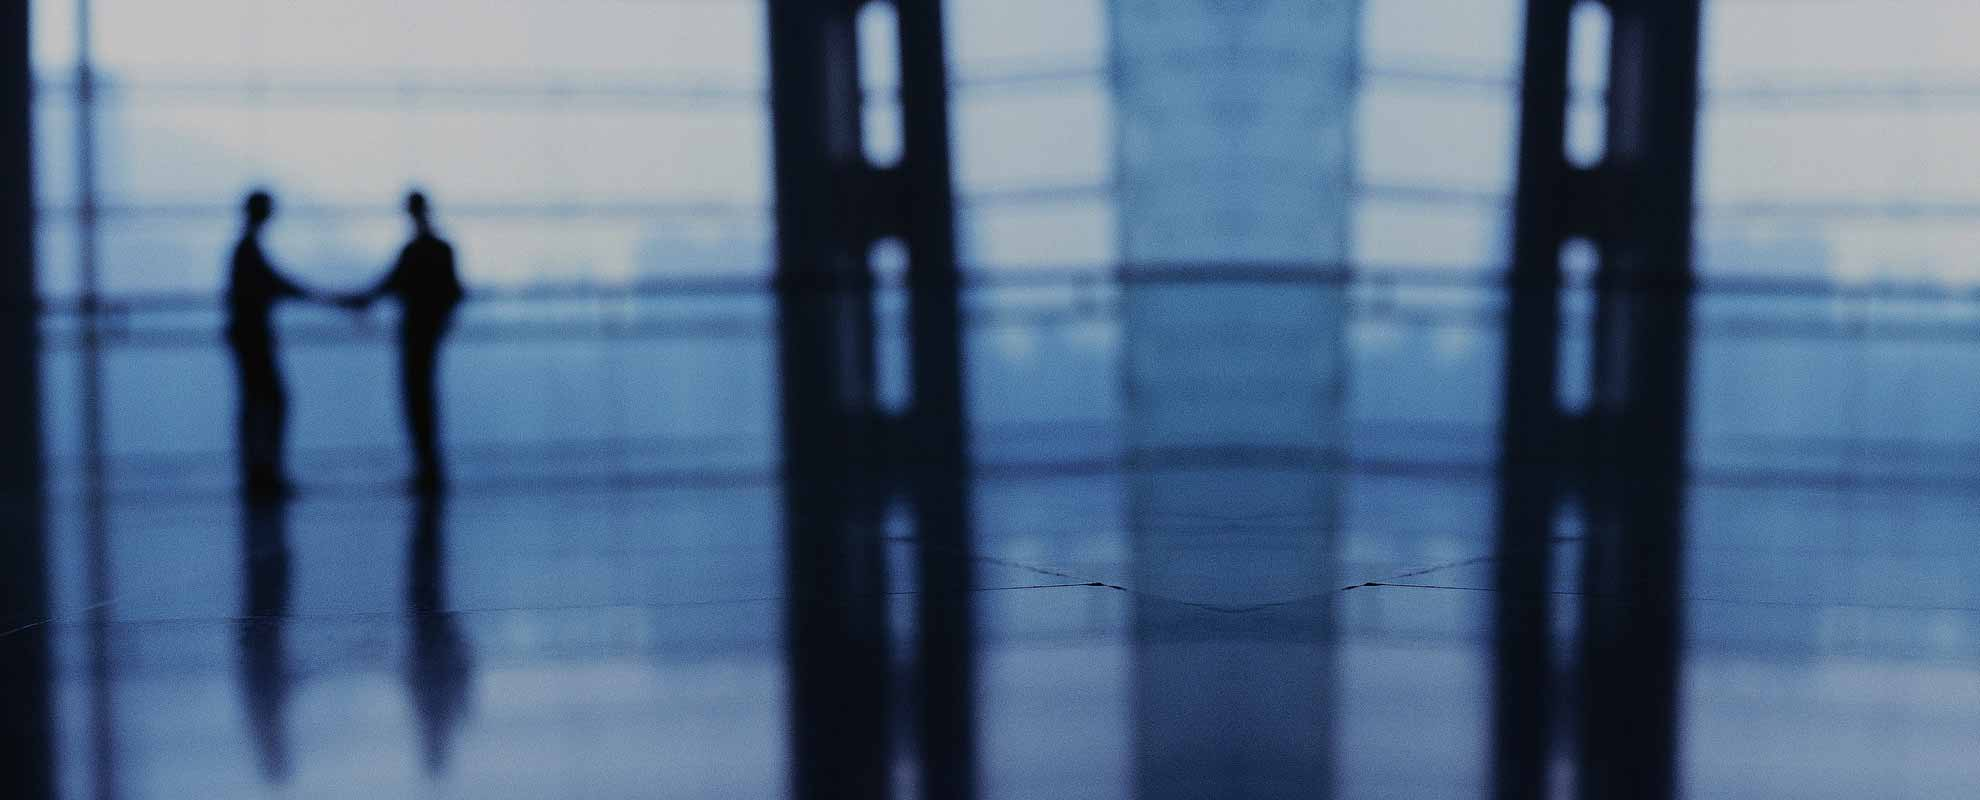
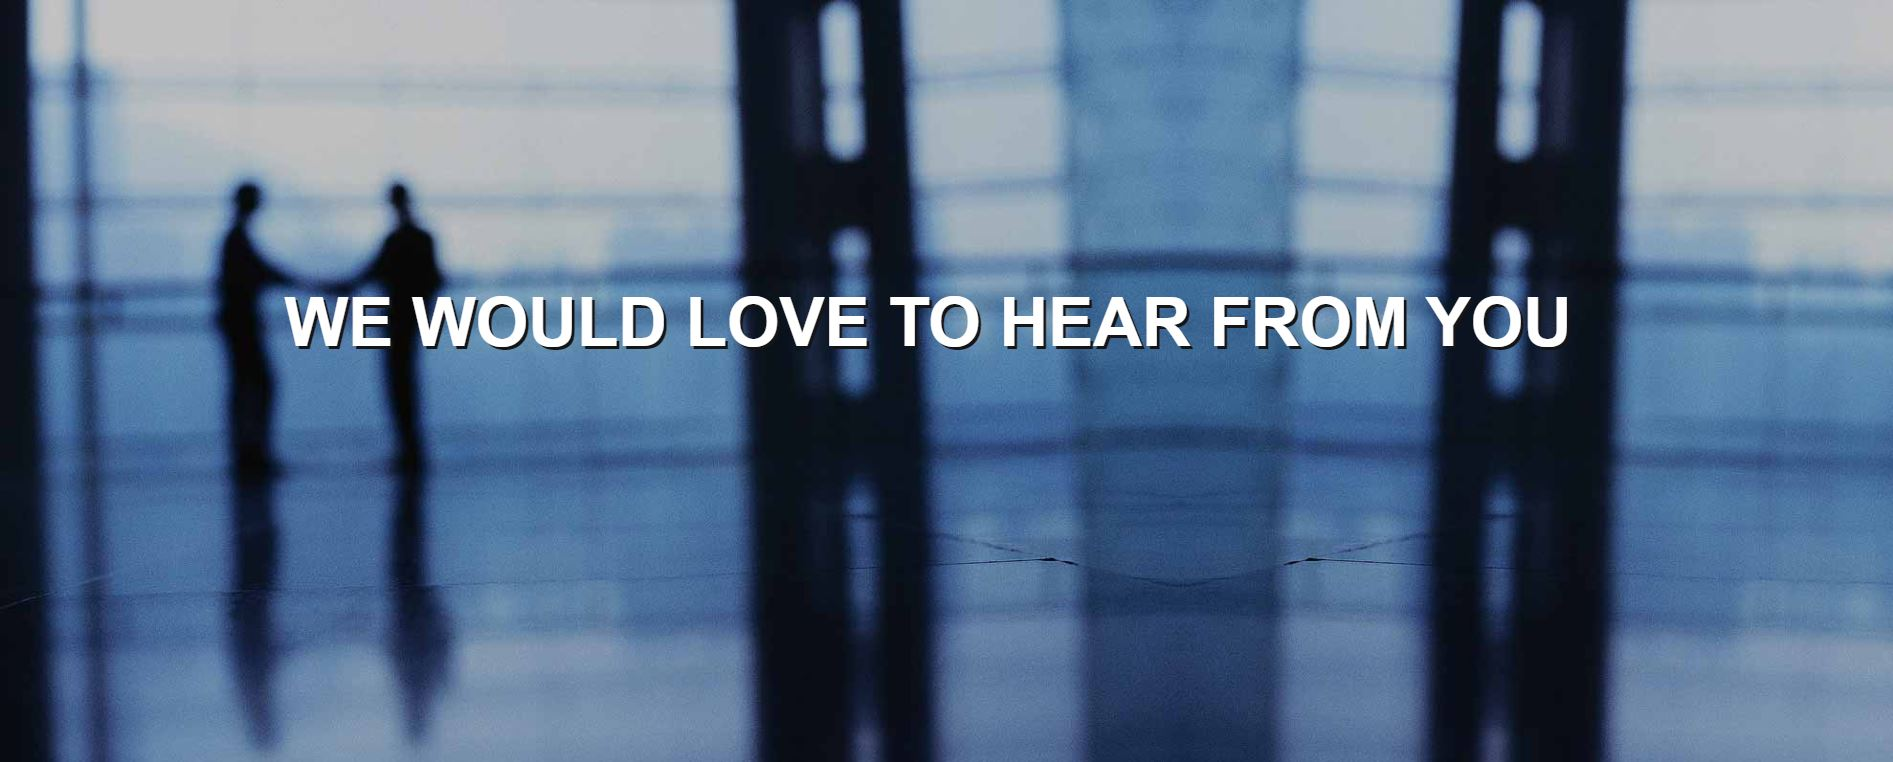
commit7

Changed region(s): [[0.1247, 0.3924, 0.8415, 0.4829], [0.6857, 0.7244, 0.748, 0.7546], [0.4987, 0.7244, 0.561, 0.7546]]

diff --git a/contact.html b/contact.html
@@ -1,0 +1,212 @@
+<!DOCTYPE html>
+<html lang="en">
+	<head>	
+		<meta name="viewport" content="width=device-width, initial-scale=1.0">			
+		<link rel="stylesheet" type="text/css" href="asset/icon.css">
+		<script src="asset/icon2.js"></script>	
+		<link rel="stylesheet" type="text/css" href="style.css">
+		<link rel="icon" type="image/x-icon" href="image/titlelogo.jpg">
+		<title>Create New User Account Page</title>
+	</head>	
+	<body>
+		<div class="contact-us-container">
+			<div class="header1">
+				<div class="left">			
+					<input type="text" placeholder="What are you looking for?">
+					<span class="material-icons">search</span>
+				</div>
+				<div class="middle">
+					<img src="image/logo.png" alt="logo">
+				</div>
+				<div class="right">
+					<div class="heart">
+						<img src="image/heart.jpg" alt="heart">
+						<div class="dropdown">
+							
+						</div>
+					</div>
+					<div class="smile">
+						<img src="image/smile.jpg" alt="smile">
+						<div class="dropdown">
+							<button>Sign in</button>
+							<p> New Cutomer? <a href="account.html">Start here.</a></p>
+							<p>Your Orders</p>
+							<p>Your Account</p>
+							<p>Ellite Membership</p>
+							<p>Your Beauty Profile</p>
+							<p>Your Wishlist</p>
+							<p>Purplle Credit</p>
+							<p>Become a seller?</p>
+							<p><a href="#">Register Now.</a></p>
+						</div>
+					</div>
+					<div class="menu">
+						<img src="image/menu.jpg" alt="menu">
+						<div class="dropdown">
+							
+						</div>
+					</div>
+				</div>
+			</div>
+			<!-- HEADER1 -->
+			<div class="header2">
+				<div class="lists">
+					<span>SHOP CATEGORIES</span> 	
+					<span>BRANDS</span> 	
+					<span>OFFERS</span> 	
+					<span>NEW</span> 	
+					<span>SPLURGE</span> 	
+					<span>MAGAZINE</span> 	
+					<span>ELITE OFFERS</span>
+				</div>
+			</div>
+			<!-- HEADER2 -->
+			<div class="contact">
+				<img src="image/contactus1.jpg" alt="contact">
+			</div>
+			<div class="reach">
+				<div id="reachus">
+					REACH US
+				</div>
+				<div id="map">
+					<div>
+						<img src="image/map.jpg" alt="map">					 	
+					</div>
+					<div id="reachdata">
+					 	<p class="call">Call</p>
+						<p>+918655500222</p>
+					 	<p class="call">E-Mail</p>
+						<p>customercare@purplle.com</p>
+					 	<p class="call">Contact US</p>
+						<p>Raheja Plaza,</p>
+					 	<p>LBS Marg, Ghatopar West,</p>
+						<p>Mumbai, Maharashtra</p>
+					 	<p>400086</p>
+						<p>India</p>
+					</div>
+				</div>			
+			</div>
+			<!-- REACH-->
+			<div class="work">
+					<p id="work1">WORK WITH US</p>
+					<p id="work2">We're hiring globally! Check out all position here..</p>
+			</div>
+			<div class="contact-form">
+				<div class="contact-form-heading">
+					<p id="p1">CONTACT US</p>
+					<p id="p2">PLEASE USE THE FOLLOWING FORM TO CONTACT US</p>
+					<p id="p3">(*MANDATORY FIELD)</p>
+				</div>				
+				<form>
+					<div class="contactus-form">
+						<ul>
+							<li>
+								<label>Your Name</label>
+								<input type="text" name="firstname" required>
+							</li>
+						</ul>
+						<ul>
+							<li>
+								<label>Your Email</label>
+								<input type="text" name="email" required>
+							</li>
+						</ul>
+						<ul>
+							<li>
+								<label>Phone No/Mobile No</label>
+								<input type="text" name="phone" size="10" required>
+							</li>
+						</ul>
+						<ul>
+							<li>
+								<label>Subject</label>
+								<input type="text" name="sub" required>
+							</li>
+						</ul>
+						<ul>
+							<li>
+								<label>Message</label>
+								<textarea name="area" rows="10" cols="40"></textarea>
+							</li>
+						</ul>	
+						<ul id="but-align">
+							<li>					
+								<input type="submit" value="SUBMIT" class="contactsub">
+								<input type="reset" value="CANCEL" class="contactcan">
+							</li>
+						</ul>	
+					</div>
+				</form>
+			</div>
+			<!--CONTACT FORM -->
+			<div class="homegif">
+				<img src="image/alert.png" alt="home">
+			</div>
+			<div class="homegif">
+				<img src="image/alert1.png" alt="home">
+			</div>
+
+			<footer>
+				<div class="footer">
+					<div class="layer1">
+						<div class="foot-column">
+							<ul>
+							<li class="head">PURPLLE</li>
+							<li class="subhead">About Us</li>
+							<li class="subhead">Our Team</li>								
+							<li class="subhead">Carrers</li>
+							<li class="subhead">Press</li>
+							<li class="subhead">Sitemap</li>	
+							</ul>
+						</div>
+						<div class="foot-column">
+							<ul>
+								<li class="head">PURPLLE BUSINESS</li>
+								<li class="subhead">Sell on Purplle</li>								
+							</ul>
+						</div>
+						<div class="foot-column">
+							<ul>
+								<li class="head">POLICY INFO</li>
+								<li class="subhead">Privacy Policy</li>
+								<li class="subhead">Terms of Use</li>
+								<li class="subhead">Return & Cancellation Policy</li>
+							</ul>
+						</div>
+						<div class="foot-column">
+							<ul>
+								<li class="head">NEED HELP?</li>
+								<li class="subhead">FAQ's</li>
+								<li class="subhead">Contact Us</li>
+							</ul>
+						</div>
+					</div>
+					<!-- LAYER1-->
+					<div class="layer2">
+						<div class="visa">
+							<span class="pay">PAYMENT</span>
+							<img src="image/visa.jpg" alt="visa">
+						</div>
+						<div class="connect">
+							<span class="pay">CONNECT</span>
+							<div id="icon">
+								<i class="fa fa-facebook face"></i>
+								<i class="fa fa-twitter twitter"></i>  
+								<i class="fa fa-google-plus google"></i>
+								<i class="fa fa-pinterest pin"></i> 
+								<i class="fa fa-envelope mail"></i>
+								<i class="fa fa-youtube-play youtube"></i>
+								<i class="fa fa-instagram insta"></i>
+								<i class="fa fa-linkedin link"></i>
+							</div>
+						</div>
+					</div>
+					<!-- LAYER2-->
+					<span id="copyright">Copyright © 2020 Purplle. All Rights Reserved.</span>
+				</div>
+				<!-- FOOTER -->
+			</footer>
+		</div>
+		<!-- CONTACT-US-CONTAINER -->
+	</body>
+</html>

diff --git a/style.css b/style.css
@@ -404,3 +404,129 @@ i{
 .coupon,.price-details{
 	border-bottom: 1px solid #cbcdcc;
 }
+
+
+
+/* CONTACT PAGE CSS */
+
+.contact img{
+    	width: 100%;
+}
+#reachdata{
+	margin: auto 0;
+	font-size:14px;
+	color:#31516a;
+}
+#reachus{	
+	font-size: 37px;
+	text-align: center;	
+    	margin: 4% 0;
+	font-family: Verdana, sans-serif;
+}
+#map{
+	width: 68%;
+	display: flex;
+	padding-bottom: 4%;
+}
+#map img{
+	width: 89%;
+}
+.call{
+	margin-top: 15%;
+	font-weight: 600;
+}
+#reachdata p{
+	margin-bottom: 2%;	
+}
+.work{
+	width:100%;
+	background-color:#14b898;
+	color: #fff;
+	padding: 12% 0;
+}
+#work1{
+	font-size: 36px;
+    	text-align: center;
+}
+#work2{
+	font-size: 23px;
+    	text-align: center;
+}
+.contact-form input[type=text]{  
+  	border: 1px solid #a7b0b4;
+  	box-shadow: inset 0 7px 5px rgb(0 0 0 / 8%);
+	border-radius:3px;
+	font-size: 14px;
+	line-height: 27px;
+	margin-left: 2%;
+    	width: 70%;
+}  
+.contact-form input[type=text]:focus {  
+  	border: 1px solid #f7d;
+	outline:none;
+} 
+.contact-form{   
+  	background-color: #f4f4f4;  
+	color:#3a4962;
+	padding: 3% 0;
+}
+.contactus-form{   
+	margin-left: 9%;
+}
+textarea{
+	vertical-align: text-top;
+	margin-left: 2%;
+} 
+.contact-form-heading{
+    	text-align: center;
+	margin-bottom: 3%;
+}
+.contact-form ul{   
+  	list-style-type:none;
+	padding: 1% 0;
+}
+.contact-form label{   
+  	color: #2d4350;
+    	font-size: 12px;
+    	font-weight: bold;
+	font-family: Verdana, sans-serif;
+	text-align: right;
+	width:20%;
+    	display: inline-block;
+}
+#p1{
+	font-size: 30px;
+    	font-weight: bold;
+}
+#p2{
+	font-size: 20px;
+    	font-weight: bold;
+}
+.contactsub:hover{  
+  	background-color:#e40980;
+} 
+.contactcan:hover{  
+  	color:#fff;
+	background-color: #818181;  	
+} 
+.contactsub, .contactcan{  
+	font-size: 16px;
+    	font-weight: 700;
+  	padding: 13px 16px;  
+  	margin: 8px 0;  
+  	border: none;  
+  	cursor: pointer;  
+  	border-radius: 7px;
+	display: inline-block;
+}
+.contactsub{
+	color: #fff;  
+  	background-color: #673ab7;  
+}
+.contactcan{  
+	color: #000;  
+  	background-color: #fff;  
+}
+#but-align{
+	text-align:center;
+}
